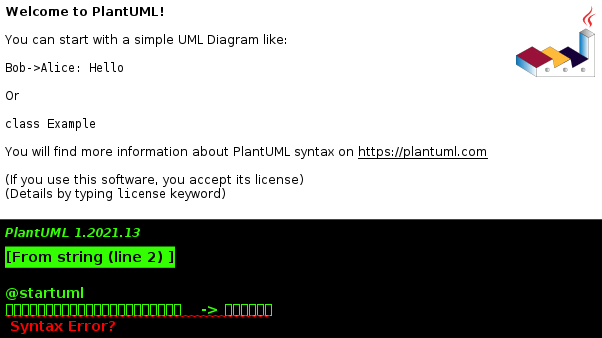
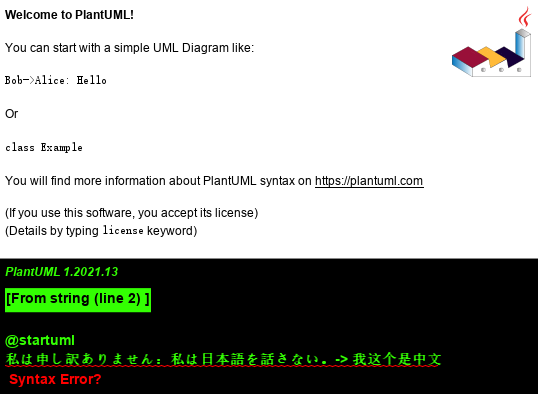
Deploying to gh-pages from @ eggcaker/eggcaker.github.io@64265d767e223bb0c1dea4dd8e879076763765e9 🚀

diff --git a/pages/books.html b/pages/books.html
@@ -16,9 +16,9 @@
 开始读书吧，如果你可以&#x2026;
 </p>
 
-<div id="outline-container-org4b476bf" class="outline-2">
-<h2 id="org4b476bf">2018<code>[59/59]</code></h2>
-<div class="outline-text-2" id="text-org4b476bf">
+<div id="outline-container-orgae0ed34" class="outline-2">
+<h2 id="orgae0ed34">2018<code>[59/59]</code></h2>
+<div class="outline-text-2" id="text-orgae0ed34">
 <ul class="org-ul">
 <li class="on"><code>[X]</code> 一生的忠号</li>
 <li class="on"><code>[X]</code> 一只 特立独行的猪</li>
@@ -83,9 +83,9 @@
 </div>
 </div>
 
-<div id="outline-container-orge23146d" class="outline-2">
-<h2 id="orge23146d">2017</h2>
-<div class="outline-text-2" id="text-orge23146d">
+<div id="outline-container-orgb938b5d" class="outline-2">
+<h2 id="orgb938b5d">2017</h2>
+<div class="outline-text-2" id="text-orgb938b5d">
 <ul class="org-ul">
 <li class="on"><code>[X]</code> 封神演义</li>
 <li class="on"><code>[X]</code> Android-Training-Course-in-Chinese</li>
@@ -116,9 +116,9 @@
 </ul>
 </div>
 </div>
-<div id="outline-container-org86aa874" class="outline-2">
-<h2 id="org86aa874">2016<code>[8/8]</code></h2>
-<div class="outline-text-2" id="text-org86aa874">
+<div id="outline-container-org01d75b3" class="outline-2">
+<h2 id="org01d75b3">2016<code>[8/8]</code></h2>
+<div class="outline-text-2" id="text-org01d75b3">
 <ul class="org-ul">
 <li class="on"><code>[X]</code> Emacs Chats - sachachua</li>
 <li class="on"><code>[X]</code> 简单的生活艺术</li>
@@ -131,9 +131,9 @@
 </ul>
 </div>
 </div>
-<div id="outline-container-org6e7fffb" class="outline-2">
-<h2 id="org6e7fffb">2015 <code>[26/26]</code></h2>
-<div class="outline-text-2" id="text-org6e7fffb">
+<div id="outline-container-org91ab34f" class="outline-2">
+<h2 id="org91ab34f">2015 <code>[26/26]</code></h2>
+<div class="outline-text-2" id="text-org91ab34f">
 <ul class="org-ul">
 <li class="on"><code>[X]</code> 法华经</li>
 <li class="on"><code>[X]</code> How to Succeed; Or, Stepping-Stones to Fame and Fortune</li>
@@ -165,9 +165,9 @@
 </ul>
 </div>
 </div>
-<div id="outline-container-orgfd9ab00" class="outline-2">
-<h2 id="orgfd9ab00">编程类 <code>[12/12]</code></h2>
-<div class="outline-text-2" id="text-orgfd9ab00">
+<div id="outline-container-orgb446204" class="outline-2">
+<h2 id="orgb446204">编程类 <code>[12/12]</code></h2>
+<div class="outline-text-2" id="text-orgb446204">
 <ul class="org-ul">
 <li class="on"><code>[X]</code> Java Puzzlers <span class="timestamp-wrapper"><span class="timestamp">[2013-07-01 Mon]</span></span></li>
 <li class="on"><code>[X]</code> Learn You a Haskell for Graeat Good <span class="timestamp-wrapper"><span class="timestamp">[2013-05-20 Mon]</span></span></li>
@@ -184,9 +184,9 @@
 </ul>
 </div>
 </div>
-<div id="outline-container-org9bb4003" class="outline-2">
-<h2 id="org9bb4003">技能学习类<code>[9/9]</code></h2>
-<div class="outline-text-2" id="text-org9bb4003">
+<div id="outline-container-orgdf3186e" class="outline-2">
+<h2 id="orgdf3186e">技能学习类<code>[9/9]</code></h2>
+<div class="outline-text-2" id="text-orgdf3186e">
 <ul class="org-ul">
 <li class="on"><code>[X]</code> 给新晋经理的 10 个忠告</li>
 <li class="on"><code>[X]</code> 给穷忙族看的理财书</li>
@@ -200,9 +200,9 @@
 </ul>
 </div>
 </div>
-<div id="outline-container-orgee7de3a" class="outline-2">
-<h2 id="orgee7de3a">生活类 <code>[28/28]</code></h2>
-<div class="outline-text-2" id="text-orgee7de3a">
+<div id="outline-container-orgdf86b37" class="outline-2">
+<h2 id="orgdf86b37">生活类 <code>[28/28]</code></h2>
+<div class="outline-text-2" id="text-orgdf86b37">
 <ul class="org-ul">
 <li class="on"><code>[X]</code> 把优秀当成一种习惯</li>
 <li class="on"><code>[X]</code> 儿童心理学</li>
@@ -236,9 +236,9 @@
 </div>
 </div>
 
-<div id="outline-container-org9cfcd2f" class="outline-2">
-<h2 id="org9cfcd2f">佛教相关 <code>[27/27]</code></h2>
-<div class="outline-text-2" id="text-org9cfcd2f">
+<div id="outline-container-orgfe8950f" class="outline-2">
+<h2 id="orgfe8950f">佛教相关 <code>[27/27]</code></h2>
+<div class="outline-text-2" id="text-orgfe8950f">
 <ul class="org-ul">
 <li class="on"><code>[X]</code> 找回不报怨的自己</li>
 <li class="on"><code>[X]</code> 注定花开</li>
@@ -270,9 +270,9 @@
 </ul>
 </div>
 </div>
-<div id="outline-container-org9b2a4dc" class="outline-2">
-<h2 id="org9b2a4dc">医学类<code>[9/9]</code></h2>
-<div class="outline-text-2" id="text-org9b2a4dc">
+<div id="outline-container-orgecf45af" class="outline-2">
+<h2 id="orgecf45af">医学类<code>[9/9]</code></h2>
+<div class="outline-text-2" id="text-orgecf45af">
 <ul class="org-ul">
 <li class="on"><code>[X]</code> 惠及大众的养生智慧：这才是中医</li>
 <li class="on"><code>[X]</code> 养生智慧：胖补气，瘦补血 <span class="timestamp-wrapper"><span class="timestamp">[2014-01-15 Wed]</span></span></li>
@@ -286,9 +286,9 @@
 </ul>
 </div>
 </div>
-<div id="outline-container-org1d60a3f" class="outline-2">
-<h2 id="org1d60a3f">小说类<code>[27/27]</code></h2>
-<div class="outline-text-2" id="text-org1d60a3f">
+<div id="outline-container-orgda0cb29" class="outline-2">
+<h2 id="orgda0cb29">小说类<code>[27/27]</code></h2>
+<div class="outline-text-2" id="text-orgda0cb29">
 <ul class="org-ul">
 <li class="on"><code>[X]</code> 都市风水师</li>
 <li class="on"><code>[X]</code> 散花女侠</li>

diff --git a/rss.html b/rss.html
@@ -1,7 +1,7 @@
 <!DOCTYPE html>
 <html lang="en">
 <head>
-<!-- 2021-11-11 Thu 13:49 -->
+<!-- 2021-11-11 Thu 13:59 -->
 <meta charset="utf-8">
 <meta name="viewport" content="width=device-width, initial-scale=1">
 <title>大道至简 - emacs.cc</title>
@@ -18,9 +18,9 @@
 <header>
 <h1 class="title">大道至简 - emacs.cc</h1>
 </header>
-<div id="outline-container-org055917b" class="outline-2">
-<h2 id="org055917b">Japanese Ano Sono Diffrent</h2>
-<div class="outline-text-2" id="text-org055917b">
+<div id="outline-container-orga24a6ef" class="outline-2">
+<h2 id="orga24a6ef">Japanese Ano Sono Diffrent</h2>
+<div class="outline-text-2" id="text-orga24a6ef">
 <p>
 这个区别其实是 <code>こ</code>, <code>そ</code>, <code>あ</code> 系做文脉指示时的区别。
 そ系在一方了解而对方不了解的信息，再次被提及时使用。
@@ -30,9 +30,9 @@
 </p>
 </div>
 </div>
-<div id="outline-container-orgb185281" class="outline-2">
-<h2 id="orgb185281">Play Emacs Ime On Mac</h2>
-<div class="outline-text-2" id="text-orgb185281">
+<div id="outline-container-org06091d1" class="outline-2">
+<h2 id="org06091d1">Play Emacs Ime On Mac</h2>
+<div class="outline-text-2" id="text-org06091d1">
 <p>
 印象中应该是 99 年暑假的时候，在县城的一个学校里开始学的五笔，一直到现在大概有二
 十年了，有一段时间还把手机里的输入法设置成了五笔。那时候的感觉就是一时用一时爽、
@@ -46,9 +46,9 @@
 起来才知道真的坑啊！
 </p>
 </div>
-<div id="outline-container-org08a0b13" class="outline-4">
-<h4 id="org08a0b13">mac 系統</h4>
-<div class="outline-text-4" id="text-org08a0b13">
+<div id="outline-container-org6801449" class="outline-4">
+<h4 id="org6801449">mac 系統</h4>
+<div class="outline-text-4" id="text-org6801449">
 <p>
 苹果系统下还算简单，苹果下的官方输入法实现叫【鼠鬚管】。基本上按照<a href="https://github.com/rime/squirrel/blob/master/INSTALL.md">安装指南</a>，基本
 上没有什么坑就可以使用了。然后按照官方的提示可以用<a href="https://github.com/rime/plum">plum</a>，基本上就按照默认安装就
@@ -71,9 +71,9 @@
 </p>
 </div>
 </div>
-<div id="outline-container-org9102230" class="outline-4">
-<h4 id="org9102230">Emacs 配置</h4>
-<div class="outline-text-4" id="text-org9102230">
+<div id="outline-container-orgceb0db8" class="outline-4">
+<h4 id="orgceb0db8">Emacs 配置</h4>
+<div class="outline-text-4" id="text-orgceb0db8">
 <p>
 Emacs 的配置相对来说就要复杂一些了，需要安装的东西有：
 <a href="https://tumashu.github.io/pyim/">pyim</a>
@@ -100,9 +100,9 @@ Karabiner-Elements, 所有配置好后，发现了个问题就是在切换打开
 </div>
 </div>
 </div>
-<div id="outline-container-org24e9325" class="outline-2">
-<h2 id="org24e9325">Start Blog With Emacs</h2>
-<div class="outline-text-2" id="text-org24e9325">
+<div id="outline-container-org60b88de" class="outline-2">
+<h2 id="org60b88de">Start Blog With Emacs</h2>
+<div class="outline-text-2" id="text-org60b88de">
 <p>
 因为有了二胎，裸辞在家照顾家人所有了有大把的时间可以折腾一些东西，除了开始学习日
 语重新的又把自己的了博客整理了下。之前一直是在各种工具、各种平台之间跳来跳去，其
@@ -133,9 +133,9 @@ Karabiner-Elements, 所有配置好后，发现了个问题就是在切换打开
 </p>
 </div>
 </div>
-<div id="outline-container-org7c4f451" class="outline-2">
-<h2 id="org7c4f451">Test Org Mode Feature</h2>
-<div class="outline-text-2" id="text-org7c4f451">
+<div id="outline-container-orgb641c62" class="outline-2">
+<h2 id="orgb641c62">Test Org Mode Feature</h2>
+<div class="outline-text-2" id="text-orgb641c62">
 <p>
 Play with the ditta char support on org-mode
 </p>

diff --git a/play-emacs-ime-on-mac.html b/play-emacs-ime-on-mac.html
@@ -1,7 +1,7 @@
 <!DOCTYPE html>
 <html lang="en">
 <head>
-<!-- 2021-11-11 Thu 13:49 -->
+<!-- 2021-11-11 Thu 13:59 -->
 <meta charset="utf-8">
 <meta name="viewport" content="width=device-width, initial-scale=1">
 <title>Play Emacs Ime On Mac</title>
@@ -29,9 +29,9 @@
 的东西都是可配置的，每个平台有自己相应的输入法实现，我用到人就是 mac 和 Emacs 了。搞
 起来才知道真的坑啊！
 </p>
-<div id="outline-container-orgd67cdfc" class="outline-2">
-<h2 id="orgd67cdfc">mac 系統</h2>
-<div class="outline-text-2" id="text-orgd67cdfc">
+<div id="outline-container-org92df395" class="outline-2">
+<h2 id="org92df395">mac 系統</h2>
+<div class="outline-text-2" id="text-org92df395">
 <p>
 苹果系统下还算简单，苹果下的官方输入法实现叫【鼠鬚管】。基本上按照<a href="https://github.com/rime/squirrel/blob/master/INSTALL.md">安装指南</a>，基本
 上没有什么坑就可以使用了。然后按照官方的提示可以用<a href="https://github.com/rime/plum">plum</a>，基本上就按照默认安装就
@@ -54,9 +54,9 @@
 </p>
 </div>
 </div>
-<div id="outline-container-org7c66c84" class="outline-2">
-<h2 id="org7c66c84">Emacs 配置</h2>
-<div class="outline-text-2" id="text-org7c66c84">
+<div id="outline-container-orgc493e33" class="outline-2">
+<h2 id="orgc493e33">Emacs 配置</h2>
+<div class="outline-text-2" id="text-orgc493e33">
 <p>
 Emacs 的配置相对来说就要复杂一些了，需要安装的东西有：
 </p>

diff --git a/test-org-mode-feature.html b/test-org-mode-feature.html
@@ -1,7 +1,7 @@
 <!DOCTYPE html>
 <html lang="en">
 <head>
-<!-- 2021-11-11 Thu 13:49 -->
+<!-- 2021-11-11 Thu 13:59 -->
 <meta charset="utf-8">
 <meta name="viewport" content="width=device-width, initial-scale=1">
 <title>Test Org Mode Feature</title>
@@ -32,18 +32,17 @@ Play with the ditta char support on org-mode
 PlantUML test
 </p>
 
-<div class="org-src-container">
-<pre class="src src-plantuml">用户A -&gt; 用户B: 你好吗？
-用户B --&gt;用户A: 好
-</pre>
-</div>
-
+<p>
+-begin<sub>src</sub> plantuml :file ./images/plantuml<sub>test</sub><sub>chinese.png</sub> :results output :cmdline -charset=UTF-8 :exports results -Shandwritten=true
+</p>
 
 
 <figure>
-<img src="./images/test_fonts.png" alt="test_fonts.png">
+<img src="./images/plantuml_test_chinese.png" alt="plantuml_test_chinese.png">
 
 </figure>
+
+
 
 <p>
 Some math demo

diff --git a/index.html b/index.html
@@ -1,7 +1,7 @@
 <!DOCTYPE html>
 <html lang="en">
 <head>
-<!-- 2021-11-11 Thu 13:49 -->
+<!-- 2021-11-11 Thu 13:59 -->
 <meta charset="utf-8">
 <meta name="viewport" content="width=device-width, initial-scale=1">
 <title>&lrm;</title>
@@ -27,9 +27,9 @@
 </pre>
 </div>
 
-<div id="outline-container-orgd95686a" class="outline-2">
-<h2 id="orgd95686a">Other <a href="blogs.html">blogs</a> <code>[100%]</code></h2>
-<div class="outline-text-2" id="text-orgd95686a">
+<div id="outline-container-org588dc9b" class="outline-2">
+<h2 id="org588dc9b">Other <a href="blogs.html">blogs</a> <code>[100%]</code></h2>
+<div class="outline-text-2" id="text-org588dc9b">
 <ul class="org-ul">
 <li>2021-11-11 - <a href="test-org-mode-feature.html">Test Org Mode Feature</a></li>
 <li>2021-11-11 - <a href="play-emacs-ime-on-mac.html">Play Emacs Ime On Mac</a></li>

diff --git a/japanes-koko-soko-asoko-diffrent.html b/japanes-koko-soko-asoko-diffrent.html
@@ -1,7 +1,7 @@
 <!DOCTYPE html>
 <html lang="en">
 <head>
-<!-- 2021-11-11 Thu 13:49 -->
+<!-- 2021-11-11 Thu 13:59 -->
 <meta charset="utf-8">
 <meta name="viewport" content="width=device-width, initial-scale=1">
 <title>ここ/そこ/あそこは名です</title>

diff --git a/japanese-ano-sono-diffrent.html b/japanese-ano-sono-diffrent.html
@@ -1,7 +1,7 @@
 <!DOCTYPE html>
 <html lang="en">
 <head>
-<!-- 2021-11-11 Thu 13:49 -->
+<!-- 2021-11-11 Thu 13:59 -->
 <meta charset="utf-8">
 <meta name="viewport" content="width=device-width, initial-scale=1">
 <title>Japanese Ano Sono Diffrent</title>

diff --git a/play-latex-word-card.html b/play-latex-word-card.html
@@ -1,7 +1,7 @@
 <!DOCTYPE html>
 <html lang="en">
 <head>
-<!-- 2021-11-11 Thu 13:49 -->
+<!-- 2021-11-11 Thu 13:59 -->
 <meta charset="utf-8">
 <meta name="viewport" content="width=device-width, initial-scale=1">
 <title>用 Latex 做识字卡片</title>

diff --git a/blogs.html b/blogs.html
@@ -1,7 +1,7 @@
 <!DOCTYPE html>
 <html lang="en">
 <head>
-<!-- 2021-11-11 Thu 13:49 -->
+<!-- 2021-11-11 Thu 13:59 -->
 <meta charset="utf-8">
 <meta name="viewport" content="width=device-width, initial-scale=1">
 <title>大道至简 - emacs.cc</title>

diff --git a/start-blog-with-emacs.html b/start-blog-with-emacs.html
@@ -1,7 +1,7 @@
 <!DOCTYPE html>
 <html lang="en">
 <head>
-<!-- 2021-11-11 Thu 13:49 -->
+<!-- 2021-11-11 Thu 13:59 -->
 <meta charset="utf-8">
 <meta name="viewport" content="width=device-width, initial-scale=1">
 <title>Start Blog With Emacs</title>
